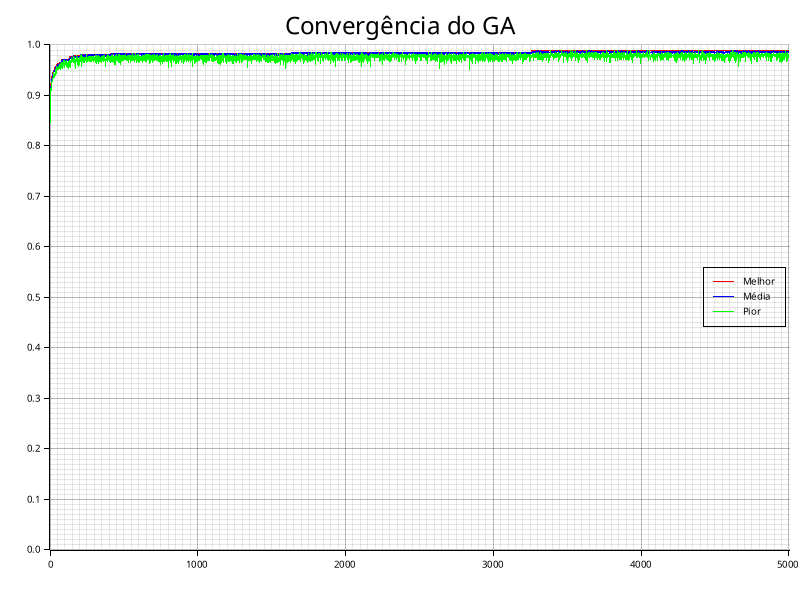
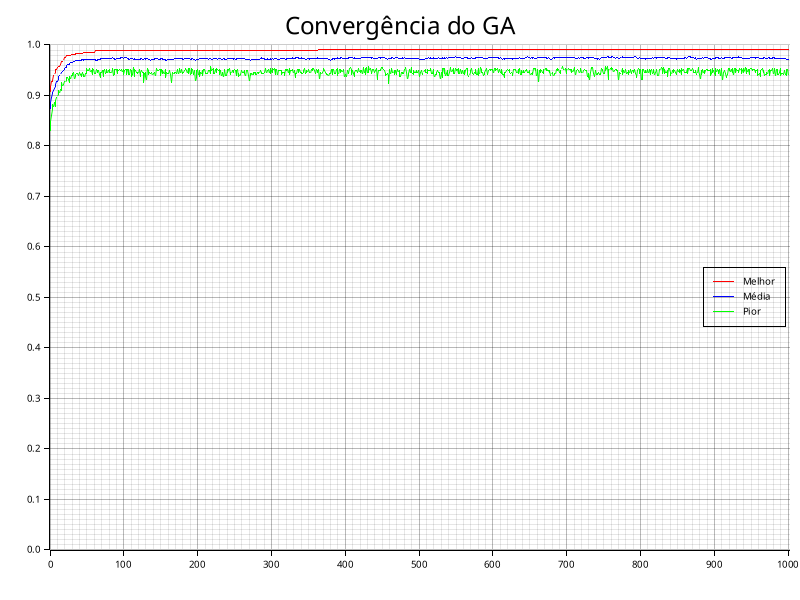
elitismo

diff --git a/src/sat.rs b/src/sat.rs
@@ -15,7 +15,6 @@ pub struct SATInstance {
     pub n_vars: usize,
 }
 
-// --- Carrega CNF ---
 pub fn load_cnf(path: &str) -> SATInstance {
     let file = File::open(path).expect("Erro ao abrir arquivo CNF");
     let reader = BufReader::new(file);
@@ -52,7 +51,6 @@ pub fn load_cnf(path: &str) -> SATInstance {
     SATInstance { clauses, n_vars }
 }
 
-// --- Avalia um indivíduo ---
 pub fn evaluate(instance: &SATInstance, assignment: &BitVec) -> i32 {
     let mut satisfied = 0;
     for clause in &instance.clauses {
@@ -83,7 +81,6 @@ pub fn evaluate_individual(ind: &Representation, instance: &SATInstance) -> f64 
     }
 }
 
-// --- Executa GA para 3-SAT ---
 pub fn run_3sat(pop: usize, gens: usize, runs: usize, crossover_prob: f64, mutation_prob: f64, cnf_path: &str) {
     println!("\n=== EX 3: Problema 3-SAT ===");
 
@@ -112,6 +109,11 @@ pub fn run_3sat(pop: usize, gens: usize, runs: usize, crossover_prob: f64, mutat
                 } else { unreachable!() }
             }).collect();
 
+            let current_best_indiv = evaluated.iter()
+                .max_by(|a, b| a.fitness.partial_cmp(&b.fitness).unwrap())
+                .unwrap();
+            
+
             for ind in &evaluated {
                 if ind.fitness > global_best_score {
                     global_best_score = ind.fitness;
@@ -127,12 +129,22 @@ pub fn run_3sat(pop: usize, gens: usize, runs: usize, crossover_prob: f64, mutat
             mean_per_gen.push(mean);
             worst_per_gen.push(worst);
 
-            //let selecionados = roulette(&evaluated, evaluated.len() / 2);
-            let selecionados = tournament_selection(&evaluated, evaluated.len() / 2, 5);
-            //let mut crossover = apply_crossover(&selecionados, crossover_prob);
-            let mut crossover = uniform_crossover(&selecionados, 0.8);
+            let selecionados = tournament_selection(&evaluated, evaluated.len() / 2, 4);
+            let mut crossover = apply_crossover(&selecionados, crossover_prob);
+            //let mut crossover = uniform_crossover(&selecionados, crossover_prob);
 
             mutation(&mut crossover, mutation_prob);
+
+            if pop > 0 {
+                let worst_offspring_index = crossover.iter().enumerate()
+                    .min_by(|(_, a), (_, b)| a.fitness.partial_cmp(&b.fitness).unwrap_or(std::cmp::Ordering::Equal))
+                    .map(|(i, _)| i)
+                    .unwrap_or(0); 
+
+                let elite = current_best_indiv.clone();
+                
+                crossover[worst_offspring_index] = elite;
+            }
 
             population = crossover
                 .into_iter()
@@ -145,7 +157,6 @@ pub fn run_3sat(pop: usize, gens: usize, runs: usize, crossover_prob: f64, mutat
 
         if let Some(best_genes) = global_best_genes {
             let satisfied = evaluate(&instance, &best_genes);
-            // let assignment: Vec<_> = best_genes.iter().map(|b| if *b { 1 } else { 0 }).collect();
             println!(
                 "Run {} -> Melhor indivíduo: {:?} | Cláusulas satisfeitas = {}/{} | fitness = {:.4}",
                 run,

diff --git a/src/main.rs b/src/main.rs
@@ -29,7 +29,7 @@ fn main() {
     // Parametros: POP, DIM, GENS, RUNS
 
     // Exercicio 3 SAT
-    run_3sat(10, gens, runs, 0.8, 0.005, "./sat.cnf");
+    run_3sat(pop_size, gens, runs, 0.9, 0.02, "./sat.cnf");
 
     // EX 1: Maximização de Função Algébrica 
     // valor otimo para X = 1.8904170901022
